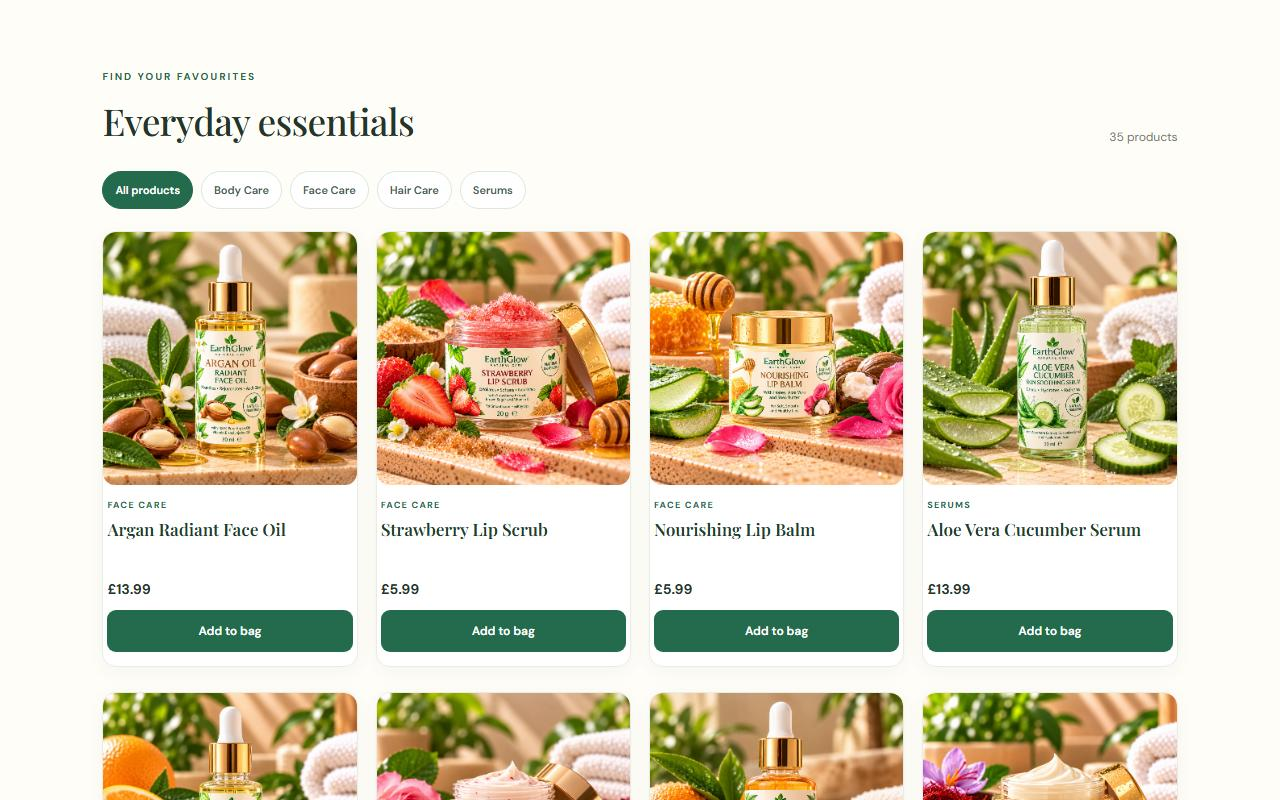
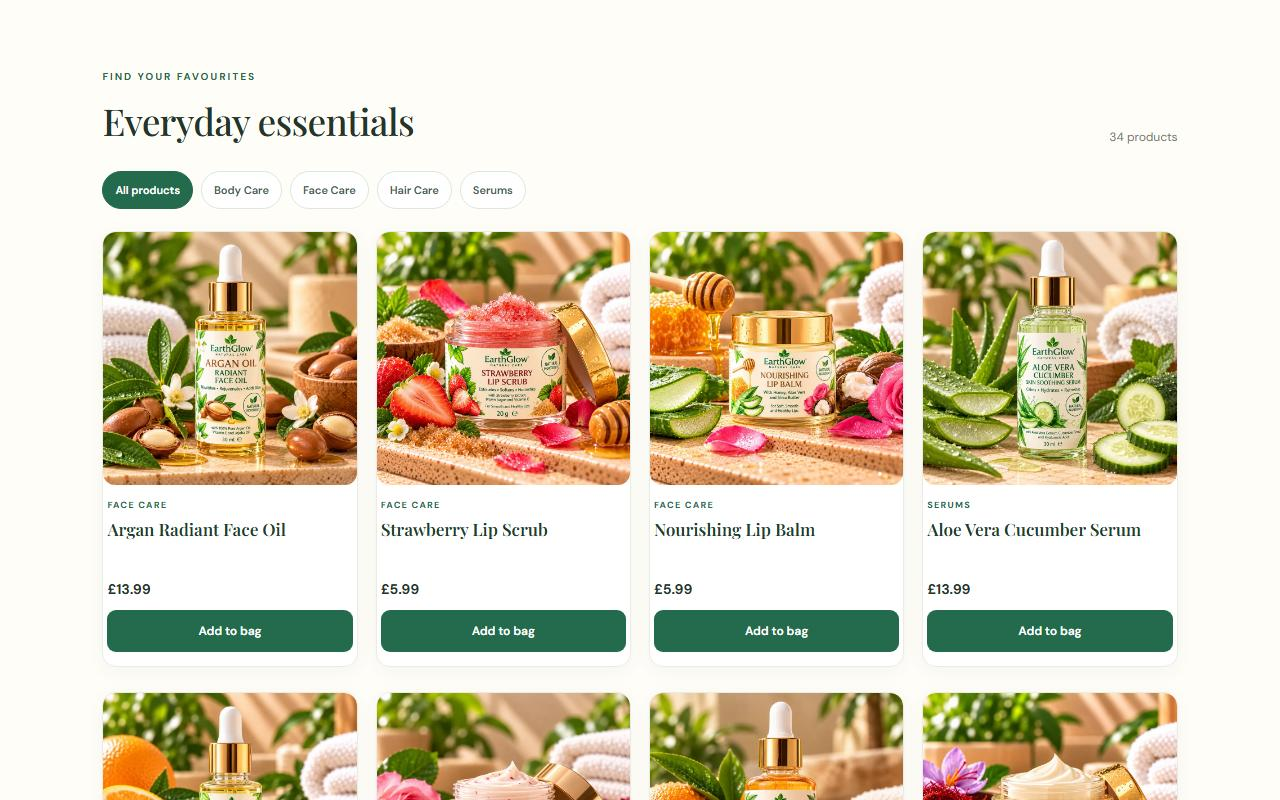
Remove Rosemary Scalp Oil product

diff --git a/backend/src/addProducts.js b/backend/src/addProducts.js
@@ -44,7 +44,6 @@ const products = [
   // HAIR CARE
   ['Coconut Nourishing Shampoo', 'Hair Care', 10.49, 40, 'coconut-nourishing-shampoo.webp'],
   ['Shea Butter Hair Conditioner', 'Hair Care', 9.49, 35, 'shea-butter-hair-conditioner.webp'],
-  ['Rosemary Scalp Oil', 'Hair Care', 11.99, 30, 'rosemary oil.webp'],
 
   // LIP CARE
   ['Nourishing Lip Balm', 'Face Care', 5.99, 40, 'nourishing-lip-balm.webp'],

diff --git a/README.md b/README.md
@@ -59,9 +59,9 @@ Health check: http://localhost:5000/api/health
 
 The two data scripts do different jobs:
 - `npm run seed` **deletes all products**, then adds 8 sample products and the admin account from `.env`. It refuses to run against a non-local database unless you run `node src/seed.js --force`.
-- `node src/addProducts.js` adds the 35 catalogue products, or updates them if they already exist. It deletes nothing.
+- `node src/addProducts.js` adds the 34 catalogue products, or updates them if they already exist. It deletes nothing.
 
-Running both gives 43 products. The live demo only has the 35 catalogue products.
+Running both gives 42 products. The live demo only has the 34 catalogue products.
 
 ## 2) Start the frontend
 Open another terminal:
@@ -110,7 +110,7 @@ Sending email needs `RESEND_API_KEY`. The app runs without it, but password-rese
 ## Tests
 ```bash
 cd backend && npm test    # 96 API tests
-cd frontend && npm test   # 42 interface tests
+cd frontend && npm test   # 43 interface tests
 ```
 Backend tests run the real API with [Vitest](https://vitest.dev) and Supertest against a temporary in-memory MongoDB, so they need no `.env` and never touch a real database. The first run downloads MongoDB, which can take a few minutes. Emails are replaced with a stand-in, so none are sent.
 
